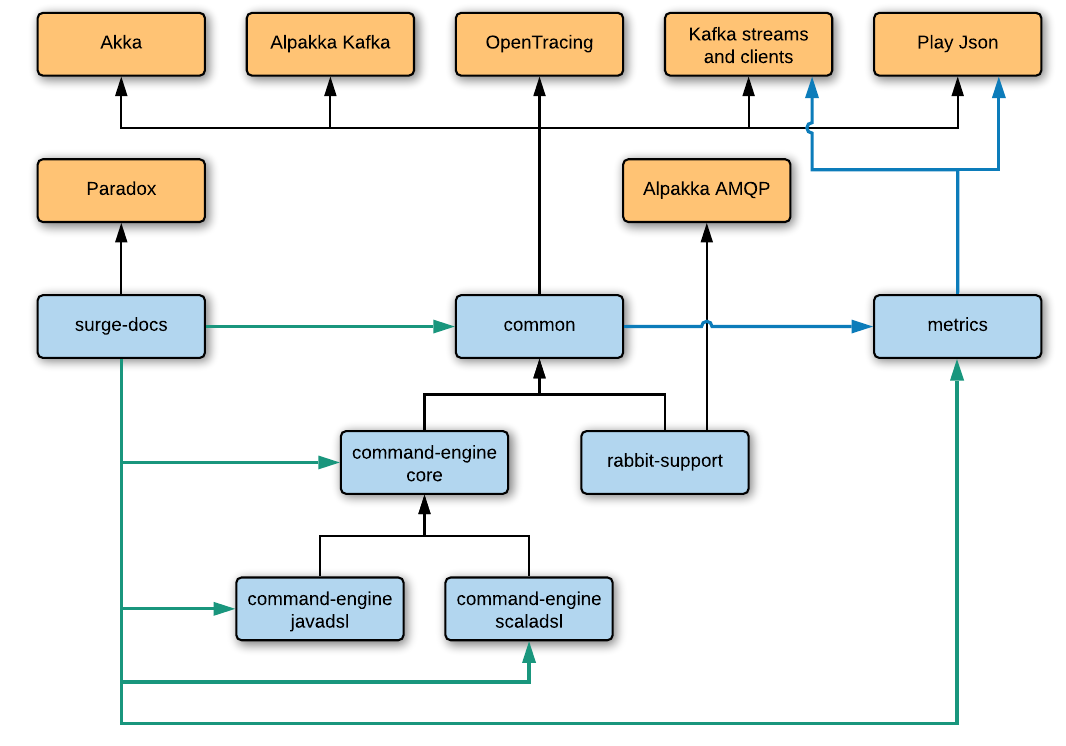
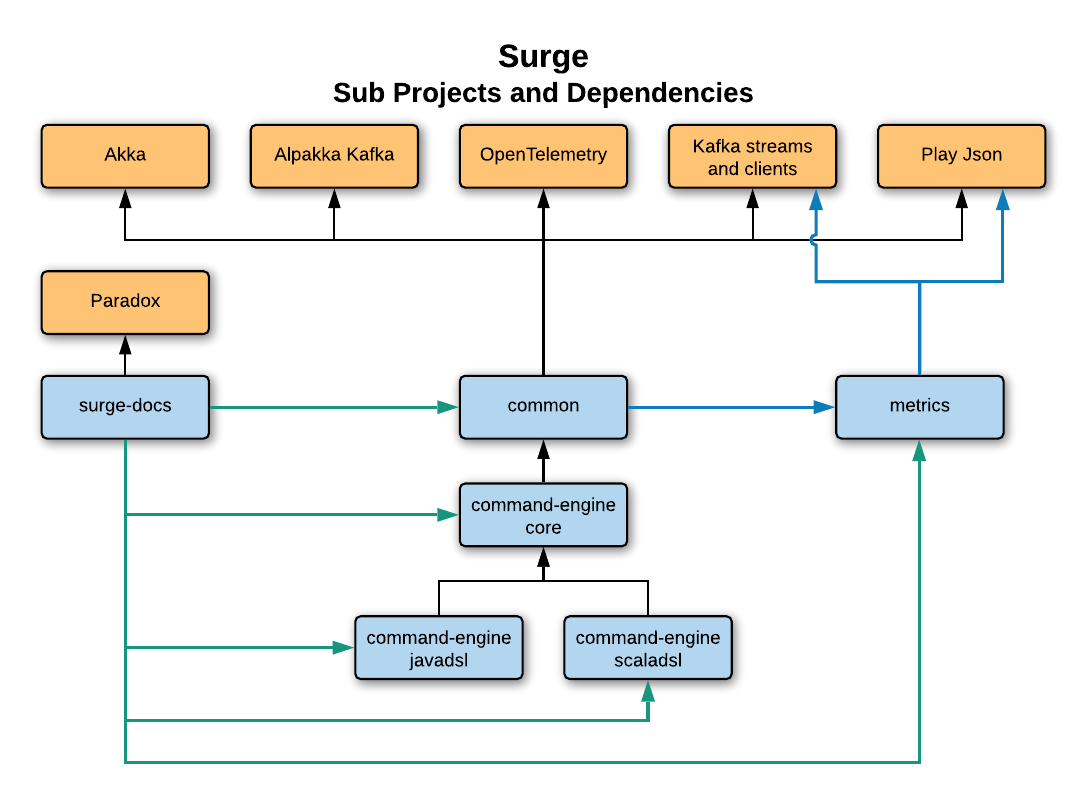
Remove RabbitMQ support from docs (#69)

diff --git a/modules/surge-docs/src/main/paradox/repository-tour.md b/modules/surge-docs/src/main/paradox/repository-tour.md
@@ -42,10 +42,6 @@ The Surge Project Repo is broken down into multiple subprojects described below.
 * User Code facing Java API's
 * Provides for conversion of monad types (Option, Collections, Future)
 
-### RabbitMQ Support
-
-* Provides Data Sinks and Sources for RabbitMQ
-
 ### Metrics
 
 * Provides Metrics Model used to instrument other Surge components
@@ -60,10 +56,9 @@ The Surge Project Repo is broken down into multiple subprojects described below.
 ## Dependencies
 
 ### Akka
-
 [Akka Docs](https://akka.io/docs/)
 
-### Alpakka Kafka and AMQP
+### Alpakka Kafka
 [Alpakka Docs](https://doc.akka.io/docs/alpakka/current/index.html)
 
 ### Kafka Streams and Clients
@@ -72,6 +67,8 @@ The Surge Project Repo is broken down into multiple subprojects described below.
 ### Play Json
 [Play Json Docs](https://www.playframework.com/documentation/2.8.x/ScalaJson)
 
+### OpenTelemetry
+[OpenTelemetry Docs](https://opentelemetry.io/docs/)
+
 ### Paradox Plugin
 [Paradox Docs](https://developer.lightbend.com/docs/paradox/current/index.html)
-
